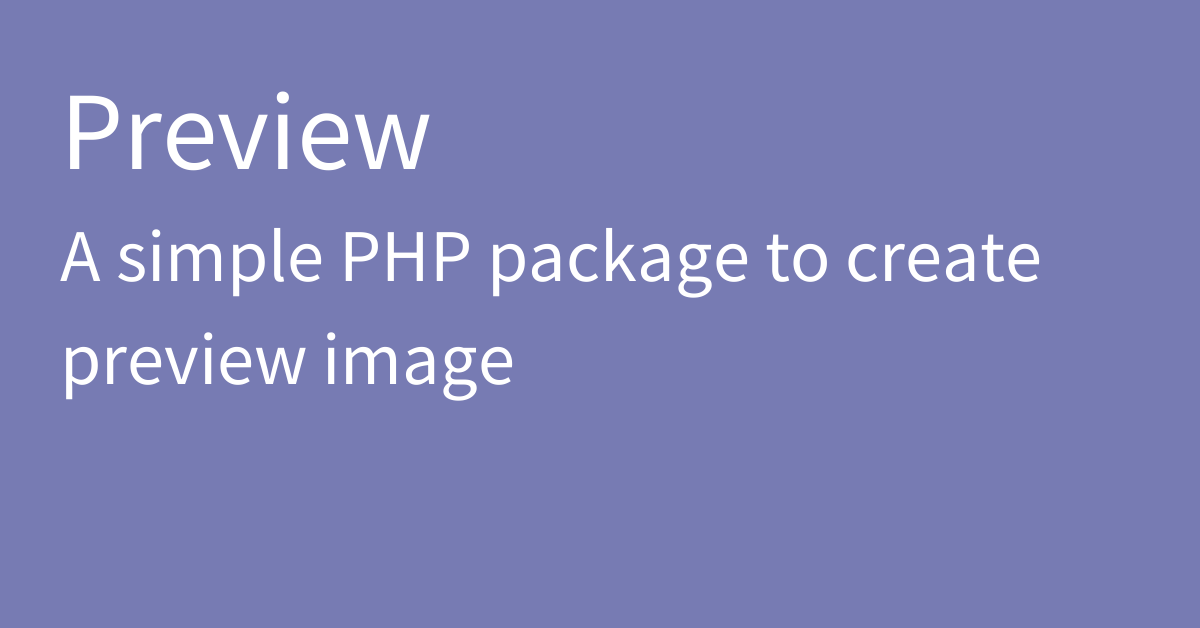
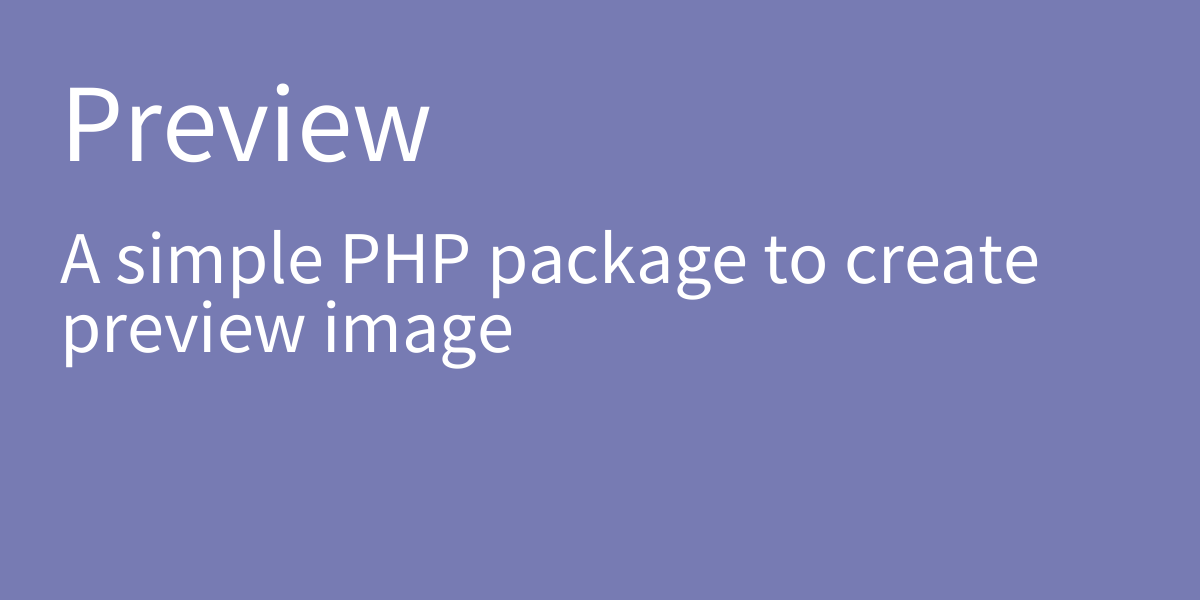
feat: prepare to release
- declare strict type in all class
- add casting on wrong types
- create wrapper tests
- update preview image
- change image default size to 1200x600
- create tests workflow

diff --git a/src/Image/Builder.php b/src/Image/Builder.php
@@ -1,5 +1,7 @@
 <?php
 
+declare(strict_types=1);
+
 namespace Yilanboy\Preview\Image;
 
 use GdImage;
@@ -13,7 +15,7 @@ final class Builder
 
     public int $width = 1200;
 
-    public int $height = 628;
+    public int $height = 600;
 
     public array $header = [
         'text' => 'Preview',
@@ -127,7 +129,7 @@ final class Builder
             fontSize: $this->header['font_size'],
             fontPath: $this->header['font_path'],
             // The maximum width should subtract the width of the border on both sides.
-            maxWidth: $this->width - $this->width * self::MARGIN_RATIO * 2
+            maxWidth: intval($this->width - $this->width * self::MARGIN_RATIO * 2)
         );
 
         $headerBbox = imagettfbbox(
@@ -135,8 +137,8 @@ final class Builder
 
         $headerHeight = $headerBbox[1] - $headerBbox[5];
 
-        $x = round($this->width * self::MARGIN_RATIO);
-        $y = round(imagesy($this->image) / 3 - $headerHeight / 2);
+        $x = intval($this->width * self::MARGIN_RATIO);
+        $y = intval(imagesy($this->image) / 3 - $headerHeight / 2);
 
         $headerColor = imagecolorallocate(
             $this->image, ...$this->converter->hexToRgb($this->header['color']));
@@ -159,7 +161,7 @@ final class Builder
             text: $this->title['text'],
             fontSize: $this->title['font_size'],
             fontPath: $this->title['font_path'],
-            maxWidth: $this->width - $this->width * self::MARGIN_RATIO * 2
+            maxWidth: intval($this->width - $this->width * self::MARGIN_RATIO * 2)
         );
 
         $titleBbox = imagettfbbox(
@@ -167,8 +169,8 @@ final class Builder
 
         $titleHeight = $titleBbox[1] - $titleBbox[5];
 
-        $x = round($this->width * self::MARGIN_RATIO);
-        $y = round((imagesy($this->image) - $titleHeight) / 2 - $titleBbox[5]);
+        $x = intval($this->width * self::MARGIN_RATIO);
+        $y = intval((imagesy($this->image) - $titleHeight) / 2 - $titleBbox[5]);
 
         $titleColor = imagecolorallocate(
             $this->image, ...$this->converter->hexToRgb($this->title['color']));

diff --git a/tests/Unit/WrapperTest.php b/tests/Unit/WrapperTest.php
@@ -1,0 +1,24 @@
+<?php
+
+use Yilanboy\Preview\Image\Writer;
+
+it('can wrap the english sentence into words', function () {
+    $writer = new Writer();
+
+    expect($writer->splitStringToArray('Hello World!'))
+        ->toBe(['Hello', ' ', 'World', '!']);
+});
+
+it('can wrap the chinese sentence into character', function () {
+    $writer = new Writer();
+
+    expect($writer->splitStringToArray('你好世界！'))
+        ->toBe(['你', '好', '世', '界', '！']);
+});
+
+it('can wrap sentence that mix english and chinese', function () {
+    $writer = new Writer();
+
+    expect($writer->splitStringToArray('Hello 世界！'))
+        ->toBe(['Hello', ' ', '世', '界', '！']);
+});

diff --git a/tests/Feature/ImageTest.php b/tests/Feature/ImageTest.php
@@ -2,11 +2,11 @@
 
 use Yilanboy\Preview\Image\Builder;
 
-it('can save image', function () {
+it('can save png image', function () {
     $filename = 'test.png';
 
     (new Builder())
-        ->size(width: 1200, height: 628)
+        ->size(width: 1200, height: 600)
         ->backgroundColor('#10b981')
         ->title(text: 'A true master is an eternal student', color: 'white')
         ->save($filename);

diff --git a/examples/output.php b/examples/output.php
@@ -5,7 +5,7 @@ include_once __DIR__.'/../vendor/autoload.php';
 use Yilanboy\Preview\Image\Builder;
 
 (new Builder())
-    ->size(width: 1200, height: 628)
+    ->size(width: 1200, height: 600)
     ->backgroundColor('#777bb3')
     ->header(text: 'Preview', color: 'white')
     ->title(text: 'A simple PHP package to create preview image', color: 'white')

diff --git a/examples/save.php b/examples/save.php
@@ -5,7 +5,7 @@ include_once __DIR__.'/../vendor/autoload.php';
 use Yilanboy\Preview\Image\Builder;
 
 (new Builder())
-    ->size(width: 1200, height: 628)
+    ->size(width: 1200, height: 600)
     ->backgroundColor('#777bb3')
     ->header(text: 'Preview', color: 'white')
     ->title(text: 'A simple PHP package to create preview image', color: 'white')

diff --git a/src/Color/Converter.php b/src/Color/Converter.php
@@ -1,5 +1,7 @@
 <?php
 
+declare(strict_types=1);
+
 namespace Yilanboy\Preview\Color;
 
 use InvalidArgumentException;

diff --git a/src/Image/Writer.php b/src/Image/Writer.php
@@ -1,5 +1,7 @@
 <?php
 
+declare(strict_types=1);
+
 namespace Yilanboy\Preview\Image;
 
 final class Writer

diff --git a/README.md b/README.md
@@ -6,7 +6,7 @@ A simple package to generate preview image.
 use Yilanboy\Preview\Image\Builder;
 
 (new Builder())
-    ->size(width: 1200, height: 628)
+    ->size(width: 1200, height: 600)
     ->backgroundColor('#777bb3')
     ->header(text: 'Preview', color: 'white')
     ->title(text: 'A simple PHP package to create preview image', color: 'white')
@@ -16,6 +16,10 @@ use Yilanboy\Preview\Image\Builder;
 This code will display the following image on the web page.
 
 ![preview](images/preview.png)
+
+You can modify the text on the preview image.
+****
+> Currently, the text only support english and chinese.
 
 ## Start a Local Server to Show the Image
 
@@ -29,9 +33,6 @@ Then open your browser and visit [localhost:8000](http://localhost:8000).
 
 ## Run Tests
 
-Before running the test, please start the local web server.
-
 ```bash
-composer run-server
 composer run-tests
 ```
